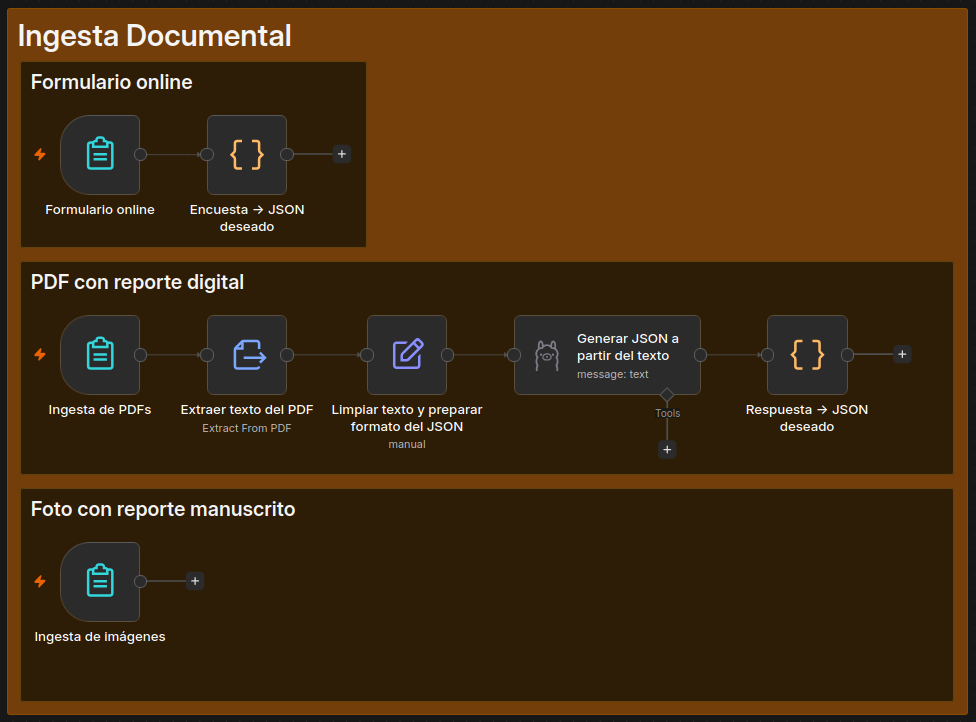
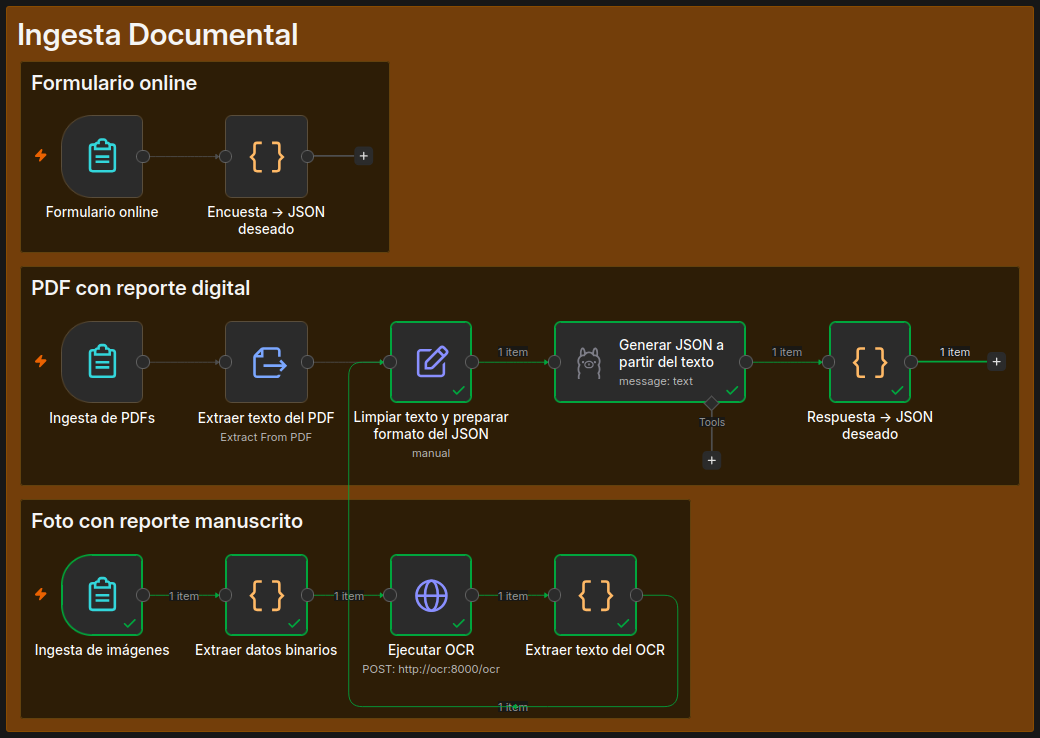
Borrador de ingesta de formularios rellenados a mano (Tesseract)

diff --git a/ocr/app.py b/ocr/app.py
@@ -1,0 +1,12 @@
+from fastapi import FastAPI, UploadFile, File
+import pytesseract
+from PIL import Image
+import io
+
+app = FastAPI()
+
[email redacted]("/ocr")
+async def ocr(file: UploadFile = File(...)):
+    image = Image.open(io.BytesIO(await file.read()))
+    text = pytesseract.image_to_string(image, lang="spa")
+    return {"text": text}

diff --git a/README.md b/README.md
@@ -14,6 +14,8 @@ Este repositorio continene información, datos y documentos desarrollados para m
 El trabajo consiste en un sistema que ayude a los operarios de una planta industrial a reaccionar ante incidencias con máquinas complejas. Además, este sistema, registra dichas incidencias y facilita su inspeción y análisis a través de un *dashboard*.
 
 
+---
+
 ## Arquitectura 
 La arquitectura se basa en un **agente IA que ingiera PDFs** con reportes de incidencias y **genere JSONs** con la información clave, que luego se le pasan a **otro** agente que **consulta los manuales para proponer una acción** al operario. Las incidencias se **registran en un CSV y en una base de datos** relacional SQL. En base a esta, se ofrece un ***dashboard*** con el **registro** de incidencias así como varios **KPIs y gráficas** y facilitan su análisis. Esto se representa en el siguiente esquema:
 
@@ -28,9 +30,12 @@ Todo esto se implementa en un ***workflow* n8n** que, a alto nivel, utiliza los 
 </p>
 
 
+---
+
 ## Guía de Instalación y Uso
 ### Prerrequisitos
 Como **prerrequisitos**, se asume que ya se dispone de una **instalación funcional de [Docker Desktop](https://www.docker.com/products/docker-desktop/)**.
+
 
 ### Instalación (con Docker)
 El *workflow* está automatizado con [n8n](https://n8n.io), desde donde se utilizan LLMs ejecutados en local con [Ollama](https://ollama.com/). Para utilizar este *stack*, se utilizan **contenedores [Docker](https://www.docker.com/)**. Gran parte de la instalación está automatizada el archivo [`docker-compose.yaml`](docker-compose.yaml), que realiza lo siguiente:
@@ -42,3 +47,13 @@ El *workflow* está automatizado con [n8n](https://n8n.io), desde donde se utili
 Para **crear estos contenedores** y ejecutarlos, debes utilizar `docker compose up -d` (`-d` es para que los contenedores se ejecuten en segundo plano). Una vez creados, podrás detenerlos y volverlos a lanzar con `docker stop [contenedor]` y `docker start [contenedor]`.
 
 Una vez creados, es necesario **descargar el LLM** a utilizar. Por defecto, el *workflow* utiliza QWen2.5:3b, que se descarga ejecutando `docker exec -it ollama ollama pull qwen2.5:3b`. Puedes ver la lista de modelos instalados en el contenedor `ollama` ejecutando `docker exec -it ollama ollama list`.
+
+
+### *Troubleshooting*
+Si en algún momento algo falla, prueba a **reconstruir la imagen sin utilizar cache** con:
+
+```bash
+docker compose down
+docker compose build --no-cache
+docker compose up -d
+```

diff --git a/doc/desarrollo.md b/doc/desarrollo.md
@@ -18,6 +18,9 @@ Con respecto a los **modelos** disponibles con **Ollama**, **Qwen2.5** es extrem
     - Otras **alternativas aún más ligeras** (aunque con peor rendimiento) son `qwen2.5:1.5b` y, especialmente, `gemma:2b`.
   - Puedes verificar **qué LLMs hay disponibles** ejecutando `docker exec -it ollama ollama list`.
 
+Para ingerir **formularios rellenados a mano**, utilizo otro contenedor Docker, `ocr`, basado en Python 3.10 y en el que instalo Tesseract OCR. Abro una FastAPI en él disponible en [`localhost:8001/ocr`](http://localhost:8001/ocr) (visible desde [`localhost:8001/docs`](http://localhost:8001/docs) desde el navegador). Desde n8n, puedo utilizarlo utilizando un **nodo *HTTP Request*** con una petición `POST` hacia [`ocr:8000/ocr`](http://ocr:8000/ocr) (NO a `localhost`, ya que dentro de n8n, `localhost` es el contenedor `n8n`, no mi ordenador). En la *request*, se añade un cuerpo `Form-Data (Multipart)` que mande *n8n Binary File* con clave `file` y como valor todo el archivo binario que contiene la imagen.
+- Se puede **testear el servicio `ocr`** desde consola ejecutando `curl -X POST http://localhost:8001/ocr -F "file=@ejemplo_incidencia.jpg"`.
+
 
 ### Análisis Documental
 TODO